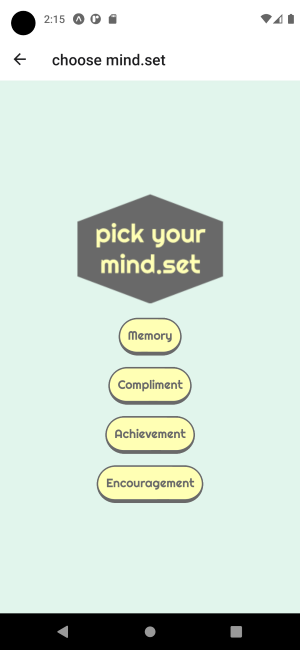
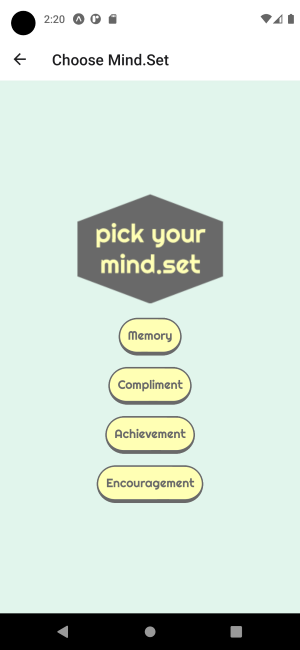
Fix text formatting and continue work on Readme

Changed region(s): [[0.18, 0.0615, 0.57, 0.1231], [0.18, 0.0, 0.21, 0.0308]]

diff --git a/mind.set/screens/Home.tsx b/mind.set/screens/Home.tsx
@@ -11,7 +11,7 @@ const HomeScreen: React.FC<StackScreenProps<any>> = ({ navigation }) => {
     <View style={styles.container}>
       <Image source={require("../assets/logo.png")} />
 
-      <Button title="Add A Mind.Set" containerStyle={styles.buttonContainer} titleStyle={styles.buttonText} buttonStyle={styles.button} onPress={() => navigation.navigate('choose mind.set')} />
+      <Button title="Add A Mind.Set" containerStyle={styles.buttonContainer} titleStyle={styles.buttonText} buttonStyle={styles.button} onPress={() => navigation.navigate('Choose Mind.Set')} />
       <Button title="Get A Mood Booster" containerStyle={styles.buttonContainer} titleStyle={styles.buttonText} buttonStyle={styles.button} onPress={() => navigation.navigate('Mood Booster')} />
       <Button title="Sign Out" containerStyle={styles.buttonContainer} titleStyle={styles.buttonText} buttonStyle={styles.button} onPress={() => signOut(auth)} />
     </View>

diff --git a/mind.set/navigation/userStack.tsx b/mind.set/navigation/userStack.tsx
@@ -19,7 +19,7 @@ export default function UserStack() {
       <Stack.Navigator>
         <Stack.Screen name="Home" component={HomeScreen} />
         <Stack.Screen name="Mood Booster" component={MoodBoosterScreen} />
-        <Stack.Screen name="choose mind.set" component={ChooseMindSet} />
+        <Stack.Screen name="Choose Mind.Set" component={ChooseMindSet} />
         <Stack.Screen name="Memory" component={Memory} />
         <Stack.Screen name="Achievement" component={Achievement} />
         <Stack.Screen name="Compliment" component={Compliment} />

diff --git a/README.md b/README.md
@@ -1,12 +1,35 @@
 # mind.set
 
+#### A React Native mobile application to help boost your mood 😊!
+
+#### By Alex Adamovic
+
+## Screenshots
+
 ![image](/mind.set/assets/logo_screenshot.png) ![image](/mind.set/assets/screenshot2.png) ![image](/mind.set/assets/screenshot3.png)
 
-#### A React Native application to help boost your mood
+## Technologies & Frameworks Used
+
+* _TypeScript_
+* _JavaScript_
+* _React Native_
+* _Expo CLI_
+* _Firebase / Firestore_
+* _Android Studio (for development purposes)_
+
+### Dependencies
+
+* _React Native Elements_
+* _React Navigation_
+* _OpenAI_
+* _dotenv_
+* _webpack_
 
 ## Description
 
-_mind.set is a platform where users are encouraged to get into a positive frame of mind by engaging with prompts / activities that require the user to recall and track their own good memories and life events, list positive traits about themselves, give themselves complements or words of encouragement, etc. Unlike a typical mental health tracking app, mind.set is all about giving the user encouragement throughout their day by letting them interact with their own self-generated positive content. There are no generic surveys that feed into charts and graphs reminding you how bad you felt last week compared to the week before. Everything is personalized because YOU are the one writing content for yourself. Ideally, the app can be used in one of two ways: A user will log on to create content when they are so inclined, or the user will log on to retrieve a complement, memory, positive trait, etc. when they need a quick boost. The app is meant to be used in short spurts, so there will be no endless scrolling. I want the user to be able to engage with the app in a couple of minutes or less and then get back to their actual lives._
+_mind.set is a platform where users are encouraged to get into a positive frame of mind by logging short entries that require the user to recall and track their own good memories and life events, list positive traits about themselves, and give themselves compliments and words of encouragement. Unlike a typical mental health tracking app, mind.set is all about giving the user encouragement throughout their day by letting them interact with their own self-generated positive content. Everything is personalized because YOU are the one writing content for yourself. Currently, the app can be used in one of two ways: A user will log on to create content when they are so inclined, or the user will log on to randomly retrieve a set of entries that they have previously written when they need a quick mood boost._
+
+_mind.set also serves as a showcase for the possibilities of OpenAI API integration, and how AI could be an effective tool in assisting mental health professionals in the future. At the click of a button, the user is able to make a call to the GPT-3 AI's most advanced engine, DaVinci-002, which takes the set of randomly pulled entries on screen and formulates a cohesvive "pep talk" to give to the user. Although the functionality is very basic, it serves as a demonstration of AI training and the ability to respond to a user on a personal level given proper data._
 
 ### Research & Planning Log
 #### Friday, 04/29/2022
